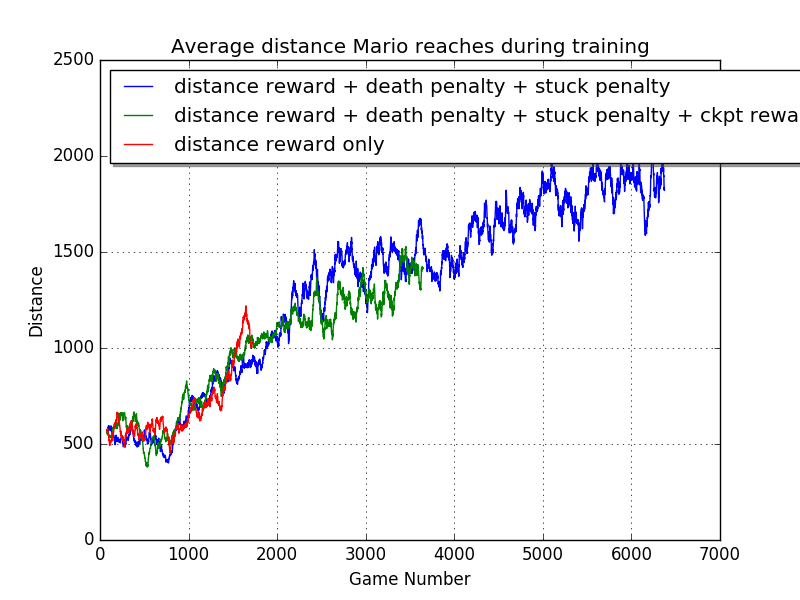
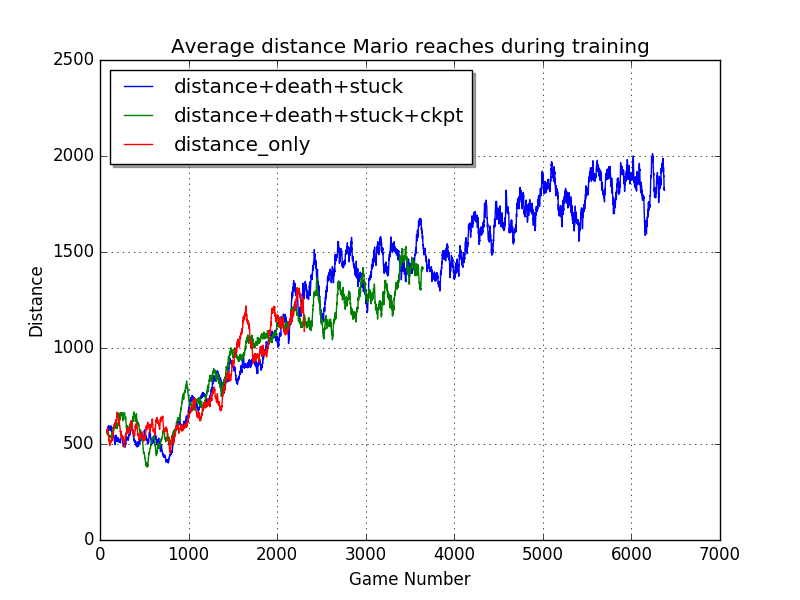
fixes to setup.sh

Changed region(s): [[0.125, 0.09, 1.0, 0.3], [0.3125, 0.48, 0.4062, 0.6]]

diff --git a/tools/plot_exps.py b/tools/plot_exps.py
@@ -35,9 +35,9 @@ def plot_exprate_comp(options):
 
 def plot_reward_comp(options):
     labels = {}
-    labels['model/20171214_160447'] = 'distance reward only'
-    labels['model/20171212_182429'] = 'distance reward + death penalty + stuck penalty'
-    labels['model/20171213_021909'] = 'distance reward + death penalty + stuck penalty + ckpt reward'
+    labels['model/20171214_160447'] = 'distance_only'
+    labels['model/20171212_182429'] = 'distance+death+stuck'
+    labels['model/20171213_021909'] = 'distance+death+stuck+ckpt'
 
     plot(options, labels, 'reward_comp', xlim=None)
     return options
